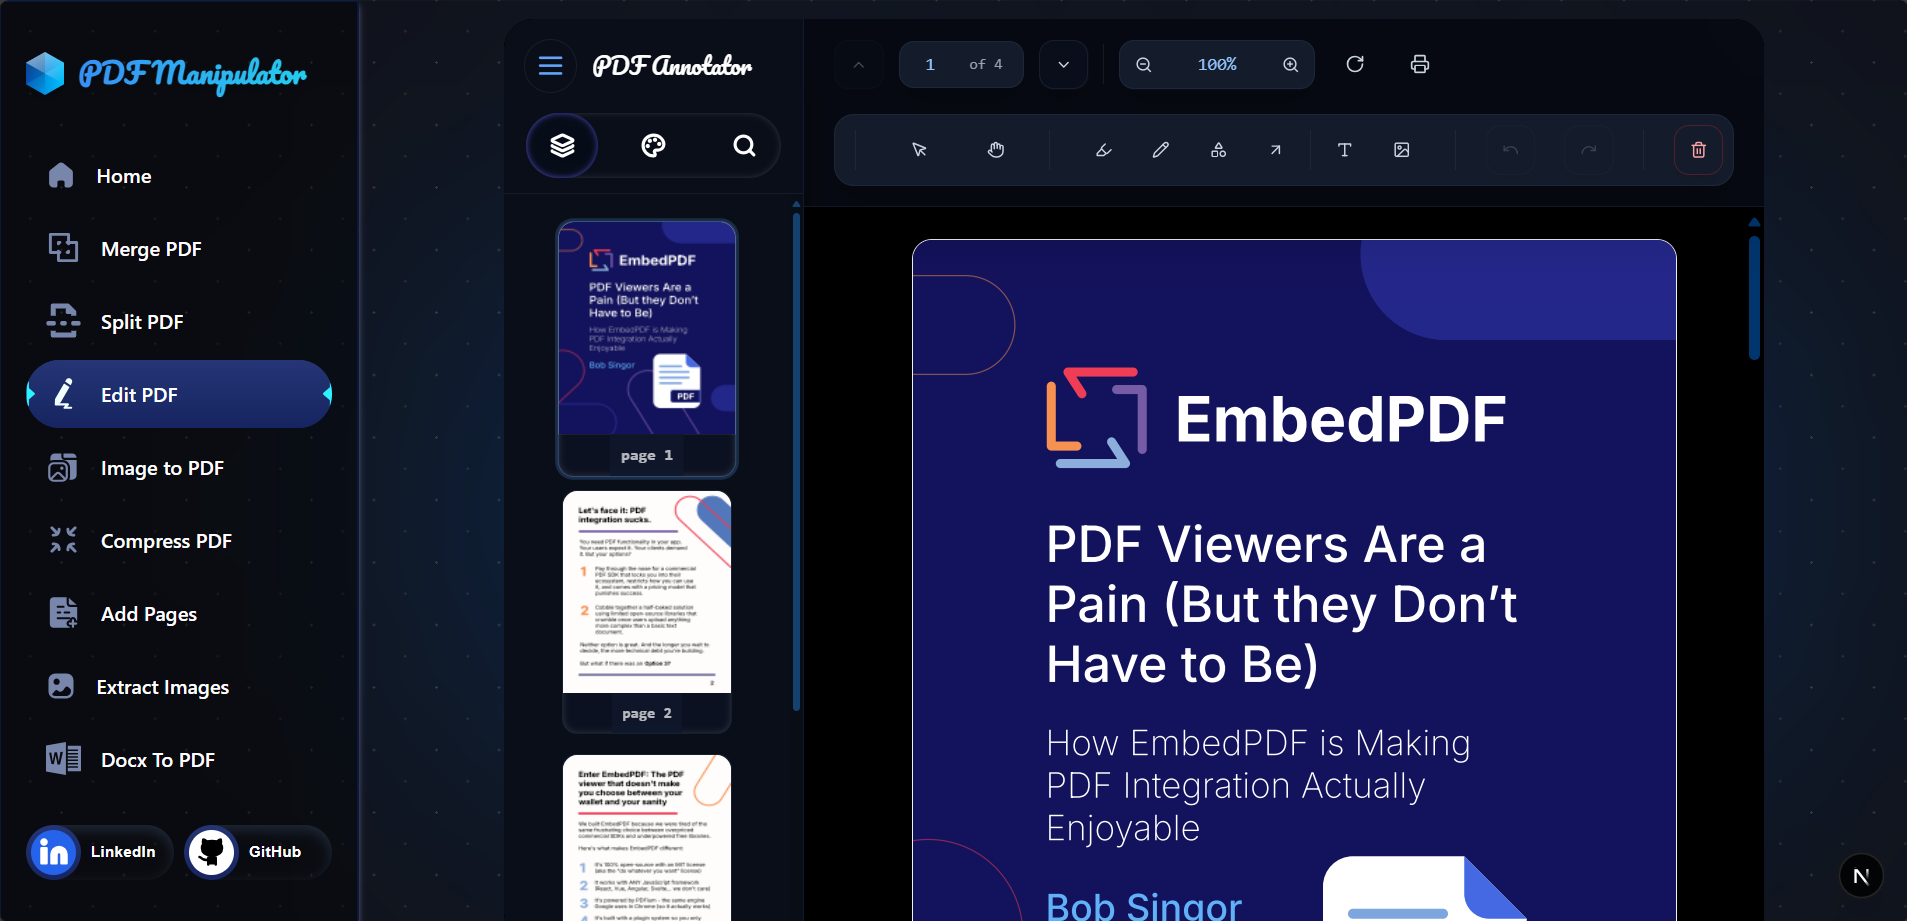
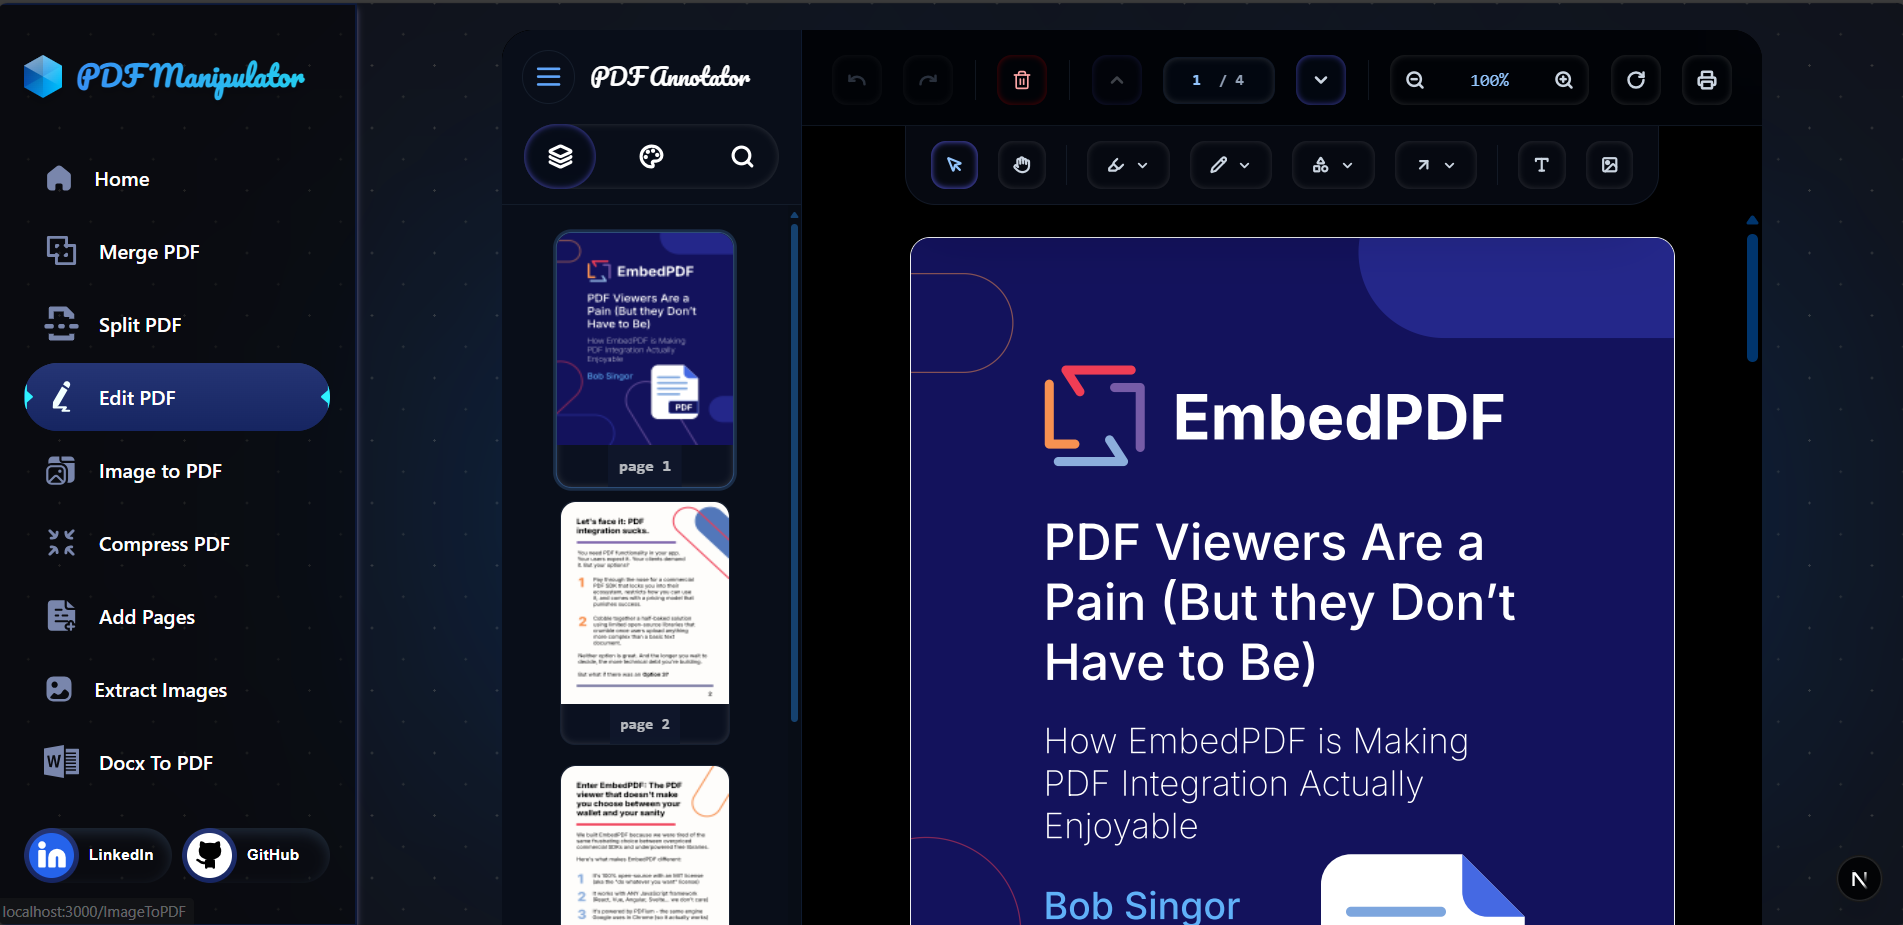
revamp(continue):redesigned the ToolBar by hand and make things look coherant together ... now revamp of StylesPanel remains also adding input component for pdf upload and all those Chunks of UI ..also still this annotator lacks features i plan to add - scroll layout(here we only have vertical i wil

diff --git a/components/Core/PDFEditor/PDFAnnotator.jsx b/components/Core/PDFEditor/PDFAnnotator.jsx
@@ -371,7 +371,7 @@ const PDFAnnotator = () => {
 
 
 					<main className="flex-1 h-auto flex  flex-col overflow-hidden relative">
-						<div className="bg-slate-900/40  rounded-tr-3xl backdrop-blur-xl border-b border-slate-800/50 px-6 py-4 shadow-2xl z-30">
+						<div className=" z-30">
 							<MainToolbar
 								searchQuery={searchQuery}
 								setSearchQuery={setSearchQuery}
@@ -828,7 +828,7 @@ const MainToolbar = ({
 						className={`w-full px-4 py-3 text-left text-sm text-slate-300 hover:bg-slate-700/50 transition-all duration-300 flex items-center space-x-3 ${annotationMode === mode ? 'bg-blue-900/30 text-blue-300' : ''
 							}`}
 					>
-						<Icon size={14} />
+						<Icon strokeWidth={3} size={16} />
 						<span>{label}</span>
 					</button>
 				))}
@@ -838,117 +838,145 @@ const MainToolbar = ({
 
 	return (
 		<>
-			<div className="flex items-center justify-between flex-wrap gap-5">
-				<div className="flex items-center space-x-3">
+			<div className="flex items-center justify-between flex-wrap">
+
+				<div className="flex justify-between w-full items-center space-x-3 bg-gray-950/40  rounded-tr-3xl backdrop-blur-xl border-b border-slate-800/50 shadow-2xl px-6 pt-5 pb-4">
+					<button
+						onClick={handleUndo}
+						disabled={!canUndo}
+						className={`p-3 !shadow-[inset_0_0_5px_rgba(200,200,200,0.2)]  rounded-xl transition-all duration-300 ${canUndo ? 'hover:bg-slate-700/30 text-slate-300' : 'opacity-40 cursor-not-allowed text-slate-500'}`}
+						title="Undo"
+					>
+						<Undo strokeWidth={3} size={16} />
+					</button>
+					<button
+						onClick={handleRedo}
+						disabled={!canRedo}
+						className={`p-3 !shadow-[inset_0_0_5px_rgba(200,200,200,0.2)]  rounded-xl transition-all duration-300 ${canRedo ? 'hover:bg-slate-700/30 text-slate-300' : 'opacity-40 cursor-not-allowed text-slate-500'}`}
+						title="Redo"
+					>
+						<Redo strokeWidth={3} size={16} />
+					</button>
+
+					<div className="w-px h-8 bg-slate-700/30 mx-2 flex-shrink-0" />
+
+					<button
+						onClick={handleDeleteSelected}
+						className="p-3 rounded-xl transition-all duration-300 flex-shrink-0 hover:!shadow-[inset_0_0_5px_rgba(200,0,0,0.6)] text-red-300  !shadow-[inset_0_0_5px_rgba(200,0,0,0.4)]"
+						title="Vaporize"
+					>
+						<Trash2 size={16} />
+					</button>
+					<div className="w-px h-8 bg-slate-700/30 mx-2 flex-shrink-0" />
+
 
 					<button
 						onClick={() => scrollApi?.scrollToPreviousPage()}
 						disabled={currentPage <= 1}
-						className="p-3 hover:bg-slate-800/30 rounded-xl transition-all duration-300 disabled:opacity-30 disabled:cursor-not-allowed shadow-xl border border-slate-700/30 backdrop-blur-xl"
+						className="p-3 !shadow-[inset_0_0_5px_rgba(100,100,255,0.6)] bg-gray-950/70  text-white  rounded-xl transition-all duration-300 disabled:opacity-30 disabled:cursor-not-allowed   backdrop-blur-xl"
 						title="Ascend"
 					>
-						<ChevronUp size={14} className="text-slate-300" />
+						<ChevronUp strokeWidth={3} size={16} className="text-slate-300" />
 					</button>
-					<div className="flex items-center space-x-2 bg-slate-800/50 rounded-xl px-4 py-2 shadow-xl border border-slate-700/30 backdrop-blur-xl">
+					<div className="flex items-center space-x-2 !shadow-[inset_0_0_5px_rgba(200,200,200,0.2)] bg-gray-950/70  text-white rounded-xl px-4 py-2.5  border border-slate-700/30 backdrop-blur-xl">
 						<input
 							type="number"
 							value={currentPage}
 							min={1}
 							max={totalPages}
 							onChange={handlePageChange}
-							className="w-8 bg-transparent text-center text-sm focus:outline-none text-blue-300 font-mono"
+							className="w-5 bg-transparent text-center font-semibold text-xs focus:outline-none text-blue-300"
 						/>
-						<span className="text-xs text-slate-400">of {totalPages}</span>
+						<span className="text-xs font-semibold text-slate-400 pr-2"> / {totalPages}</span>
 					</div>
 					<button
 						onClick={() => scrollApi?.scrollToNextPage()}
 						disabled={currentPage >= totalPages}
-						className="p-3 hover:bg-slate-800/30 rounded-xl transition-all duration-300 disabled:opacity-30 disabled:cursor-not-allowed shadow-xl border border-slate-700/30 backdrop-blur-xl"
+						className="p-3 !shadow-[inset_0_0_5px_rgba(100,100,255,0.6)] bg-gray-950/70  text-white  rounded-xl transition-all duration-300 disabled:opacity-30 disabled:cursor-not-allowed   backdrop-blur-xl"
 						title="Descend"
 					>
-						<ChevronDown size={14} className="text-slate-300" />
+						<ChevronDown strokeWidth={3} size={16} className="text-slate-300" />
 					</button>
 
 					<div className="w-px h-8 bg-slate-700/30 mx-2 flex-shrink-0" />
 
-					<div className="flex items-center space-x-2 bg-slate-800/50 rounded-xl shadow-xl border border-slate-700/30 backdrop-blur-xl">
+					<div className="flex py-2.5 items-center space-x-2 !shadow-[inset_0_0_5px_rgba(200,200,200,0.2)]  rounded-xl ">
 						<button
 							onClick={() => zoomApi?.zoomOut()}
-							className="p-3 hover:bg-slate-700/30 rounded-l-xl transition-all duration-300"
+							className="px-3 hover:bg-slate-700/30 rounded-l-xl transition-all duration-300"
 							title="Contract"
 						>
-							<ZoomOut size={14} className="text-slate-300" />
+							<ZoomOut strokeWidth={3} size={16} className="text-slate-300" />
 						</button>
 						<select
 							value={Math.round(zoom * 100)}
 							onChange={(e) =>
 								zoomApi?.requestZoom(parseInt(e.target.value, 10) / 100)
 							}
-							className="bg-transparent px-4 py-2 text-sm focus:outline-none cursor-pointer text-blue-300 font-mono"
+							className="bg-transparent px-4  text-sm focus:outline-none cursor-pointer text-blue-300 font-mono"
 							style={{ appearance: 'none', width: 'fit-content' }}
 						>
 							{zoomLevels.map((level) => (
-								<option key={level} value={Math.round(level * 100)}>
+								<option key={level} value={Math.round(level * 100)} className=' bg-black-100'>
 									{Math.round(level * 100)}%
 								</option>
 							))}
 						</select>
 						<button
 							onClick={() => zoomApi?.zoomIn()}
-							className="p-3 hover:bg-slate-700/30 rounded-r-xl transition-all duration-300"
+							className="px-3 hover:bg-slate-700/30 rounded-r-xl transition-all duration-300"
 							title="Expand"
 						>
-							<ZoomIn size={14} className="text-slate-300" />
+							<ZoomIn strokeWidth={3} size={16} className="text-slate-300" />
 						</button>
 					</div>
 
 					<button
 						onClick={() => rotateApi?.rotateForward()}
-						className="p-3 hover:bg-slate-700/30 rounded-xl transition-all duration-300"
+						className="p-3 !shadow-[inset_0_0_5px_rgba(200,200,200,0.2)] rounded-xl transition-all duration-300"
 						title="Spin"
 					>
-						<RotateIcon size={16} className="text-slate-300" />
+						<RotateIcon strokeWidth={3} size={16} className="text-slate-300" />
 					</button>
 					<button
 						onClick={() => printApi?.print()}
-						className="p-3 hover:bg-slate-700/30 rounded-xl transition-all duration-300"
+						className="p-3 !shadow-[inset_0_0_5px_rgba(200,200,200,0.2)]  rounded-xl transition-all duration-300"
 						title="Manifest"
 					>
-						<Printer size={16} className="text-slate-300" />
+						<Printer strokeWidth={3} size={16} className="text-slate-300" />
 					</button>
+
 				</div>
 
-				<div className="flex items-center w-full justify-between space-x-2 bg-slate-800/50 rounded-2xl p-2 shadow-xl border border-slate-700/30 backdrop-blur-xl">
-
-					<div className="w-px h-8 bg-slate-700/30 mx-2 flex-shrink-0" />
-
+				{/* below toolbar */}
+				<div className="flex justify-between w-fit items-center space-x-4 mx-auto bg-slate-900/40  rounded-b-3xl backdrop-blur-xl border border-t-0 border-slate-800/50 shadow-2xl px-5 py-3 ">
 					<button
 						onClick={() => setAnnotationMode('select')}
-						className={`p-3 rounded-xl transition-all duration-300 flex-shrink-0 ${annotationMode === 'select' ? 'bg-blue-900/30 text-blue-300 shadow-lg border border-blue-400/30' : 'hover:bg-slate-700/30 text-slate-300'}`}
+						className={`p-3 rounded-xl transition-all duration-300 flex-shrink-0 ${annotationMode === 'select' ? ' text-blue-300 !shadow-[inset_0_0_5px_rgba(100,100,255,0.9)]' : '!shadow-[inset_0_0_5px_rgba(200,200,200,0.2)] text-slate-300'}`}
 						title="Selector"
 					>
-						<MousePointer size={14} />
+						<MousePointer strokeWidth={3} size={14} />
 					</button>
 					<button
 						onClick={() => setAnnotationMode('pan')}
-						className={`p-3 rounded-xl transition-all duration-300 flex-shrink-0 ${annotationMode === 'pan' ? 'bg-blue-900/30 text-blue-300 shadow-lg border border-blue-400/30' : 'hover:bg-slate-700/30 text-slate-300'}`}
+						className={`p-3 rounded-xl transition-all duration-300 flex-shrink-0 ${annotationMode === 'pan' ? ' text-blue-300 !shadow-[inset_0_0_5px_rgba(100,100,255,0.9)]' : '!shadow-[inset_0_0_5px_rgba(200,200,200,0.2)] text-slate-300'}`}
 						title="Drift"
 					>
-						<Hand size={14} />
+						<Hand strokeWidth={3} size={14} />
 					</button>
 					<div className="w-px h-8 bg-slate-700/30 mx-2 flex-shrink-0" />
 
 					{/* Grouped Tool Buttons */}
-					<div className="relative flex items-center space-x-2 ">
+					{/* <div className="relative flex items-center space-x-2 "> */}
 						{/* Markup Group */}
 						<div className="relative">
 							<button
 								onClick={() => setToolDropdown(toolDropdown === 'markup' ? null : 'markup')}
-								className={`p-3 rounded-xl min-w-fit flex-row flex transition-all duration-300 flex-shrink-0 ${toolDropdown === 'markup' ? 'bg-amber-900/30 text-amber-300 shadow-lg border border-amber-400/30' : 'hover:bg-slate-700/30 text-slate-300'}`}
+								className={`p-3 px-4 rounded-xl min-w-fit flex-row flex items-center gap-1 transition-all duration-300 flex-shrink-0 ${toolDropdown === 'markup' || ['squiggly', 'strikeout', 'underline', 'highlight'].includes(annotationMode) ? ' !shadow-[inset_0_0_5px_rgba(252,211,77,0.6)] text-amber-300  ' : 'hover:bg-slate-700/30 !shadow-[inset_0_0_5px_rgba(200,200,200,0.2)] text-slate-300'}`}
 								title="Text Markup"
 							>
-								<Highlighter size={14} />
-								{toolDropdown === 'markup' && <DropdownIcon size={12} className="ml-1" />}
+								<Highlighter strokeWidth={3} size={14} />
+								<DropdownIcon strokeWidth={3} size={12} className={`ml-1 ${toolDropdown === 'markup' ? "rotate-180" : ""}`} />
 							</button>
 							{toolDropdown === 'markup' && (
 								<ToolDropdown group="markup" onSelect={setAnnotationMode} onClose={() => setToolDropdown(null)} />
@@ -959,11 +987,11 @@ const MainToolbar = ({
 						<div className="relative">
 							<button
 								onClick={() => setToolDropdown(toolDropdown === 'ink' ? null : 'ink')}
-								className={`p-3 rounded-xl min-w-fit flex-row flex transition-all duration-300 flex-shrink-0 ${toolDropdown === 'ink' ? 'bg-emerald-900/30 text-emerald-300 shadow-lg border border-emerald-400/30' : 'hover:bg-slate-700/30 text-slate-300'}`}
+								className={`p-3  px-4 rounded-xl min-w-fit flex-row flex items-center gap-1 transition-all duration-300 flex-shrink-0 ${toolDropdown === 'ink' || ['ink', 'inkHighlighter'].includes(annotationMode) ? ' !shadow-[inset_0_0_5px_rgba(110,231,183,0.6)] text-emerald-300  ' : 'hover:bg-slate-700/30 !shadow-[inset_0_0_5px_rgba(200,200,200,0.2)] text-slate-300'}`}
 								title="Ink Tools"
 							>
-								<Pencil size={14} />
-								{toolDropdown === 'ink' && <DropdownIcon size={12} className="ml-1" />}
+								<Pencil strokeWidth={3} size={14} />
+								<DropdownIcon strokeWidth={3} size={12} className={`ml-1 ${toolDropdown === 'ink' ? "rotate-180" : ""}`} />
 							</button>
 							{toolDropdown === 'ink' && (
 								<ToolDropdown group="ink" onSelect={setAnnotationMode} onClose={() => setToolDropdown(null)} />
@@ -974,11 +1002,11 @@ const MainToolbar = ({
 						<div className="relative">
 							<button
 								onClick={() => setToolDropdown(toolDropdown === 'shapes' ? null : 'shapes')}
-								className={`p-3 rounded-xl min-w-fit flex-row flex transition-all duration-300 flex-shrink-0 ${toolDropdown === 'shapes' ? 'bg-indigo-900/30 text-indigo-300 shadow-lg border border-indigo-400/30' : 'hover:bg-slate-700/30 text-slate-300'}`}
+								className={`p-3  px-4 rounded-xl min-w-fit flex-row flex items-center gap-1 transition-all duration-300 flex-shrink-0 ${toolDropdown === 'shapes' || ['circle', 'square', 'polygon'].includes(annotationMode) ? ' !shadow-[inset_0_0_5px_rgba(147,197,253,0.6)] text-blue-300  ' : 'hover:bg-slate-700/30 !shadow-[inset_0_0_5px_rgba(200,200,200,0.2)] text-slate-300'}`}
 								title="Shapes"
 							>
-								<ShapesIcon size={14} />
-								{toolDropdown === 'shapes' && <DropdownIcon size={12} className="ml-1" />}
+								<ShapesIcon strokeWidth={3} size={14} />
+								<DropdownIcon strokeWidth={3} size={12} className={`ml-1 ${toolDropdown === 'shapes' ? "rotate-180" : ""}`} />
 							</button>
 							{toolDropdown === 'shapes' && (
 								<ToolDropdown group="shapes" onSelect={setAnnotationMode} onClose={() => setToolDropdown(null)} />
@@ -989,11 +1017,11 @@ const MainToolbar = ({
 						<div className="relative">
 							<button
 								onClick={() => setToolDropdown(toolDropdown === 'lines' ? null : 'lines')}
-								className={`p-3 rounded-xl min-w-fit flex-row flex transition-all duration-300 flex-shrink-0 ${toolDropdown === 'lines' ? 'bg-slate-700/30 text-slate-300 shadow-lg border border-slate-600/30' : 'hover:bg-slate-700/30 text-slate-300'}`}
+								className={`p-3  px-4 rounded-xl min-w-fit flex-row flex items-center gap-1 transition-all duration-300 flex-shrink-0 ${toolDropdown === 'lines' || ['line', 'lineArrow', 'polyline'].includes(annotationMode) ? ' !shadow-[inset_0_0_5px_rgba(252,165,165,0.6)] text-red-300  ' : 'hover:bg-slate-700/30 !shadow-[inset_0_0_5px_rgba(200,200,200,0.2)] text-slate-300'}`}
 								title="Lines"
 							>
-								<ArrowUpRight size={14} />
-								{toolDropdown === 'lines' && <DropdownIcon size={12} className="ml-1" />}
+								<ArrowUpRight strokeWidth={3} size={14} />
+								<DropdownIcon strokeWidth={3} size={12} className={`ml-1 ${toolDropdown === 'lines' ? "rotate-180" : ""}`} />
 							</button>
 							{toolDropdown === 'lines' && (
 								<ToolDropdown group="lines" onSelect={setAnnotationMode} onClose={() => setToolDropdown(null)} />
@@ -1004,48 +1032,21 @@ const MainToolbar = ({
 
 						<button
 							onClick={() => setAnnotationMode('freeText')}
-							className={`p-3 rounded-xl transition-all duration-300 flex-shrink-0 ${annotationMode === 'freeText' ? 'bg-blue-900/30 text-blue-300 shadow-lg border border-blue-400/30' : 'hover:bg-slate-700/30 text-slate-300'}`}
+							className={`p-3 rounded-xl transition-all duration-300 flex-shrink-0 ${annotationMode === 'freeText' ? ' text-blue-300 !shadow-[inset_0_0_5px_rgba(100,100,255,0.9)]' : '!shadow-[inset_0_0_5px_rgba(200,200,200,0.2)] text-slate-300'}`}
 							title="Inscribe"
 						>
-							<Type size={14} />
+							<Type strokeWidth={3} size={14} />
 						</button>
 						<button
 							onClick={() => setAnnotationMode('stamp')}
-							className={`p-3 rounded-xl transition-all duration-300 flex-shrink-0 hover:bg-slate-700/30 text-slate-300 ${annotationMode === 'stamp' ? 'bg-blue-900/30 text-blue-300 shadow-lg border border-blue-400/30' : ''}`}
-							title="Imprint"
+							className={`p-3 rounded-xl transition-all duration-300 flex-shrink-0 ${annotationMode === 'stamp' ? ' text-blue-300 !shadow-[inset_0_0_5px_rgba(100,100,255,0.9)]' : '!shadow-[inset_0_0_5px_rgba(200,200,200,0.2)] text-slate-300'}`}
+							title="Add Image"
 						>
-							<ImageIcon size={14} />
+							<ImageIcon strokeWidth={3} size={14} />
 						</button>
 
-					</div>
-					<div className="w-px h-8 bg-slate-700/30 mx-2 flex-shrink-0" />
+					{/* </div> */}
 
-					<button
-						onClick={handleUndo}
-						disabled={!canUndo}
-						className={`p-3 rounded-xl transition-all duration-300 flex-shrink-0 shadow-lg border border-slate-700/30 ${canUndo ? 'hover:bg-slate-700/30 text-slate-300' : 'opacity-40 cursor-not-allowed text-slate-500'}`}
-						title="Rewind"
-					>
-						<Undo size={14} />
-					</button>
-					<button
-						onClick={handleRedo}
-						disabled={!canRedo}
-						className={`p-3 rounded-xl transition-all duration-300 flex-shrink-0 shadow-lg border border-slate-700/30 ${canRedo ? 'hover:bg-slate-700/30 text-slate-300' : 'opacity-40 cursor-not-allowed text-slate-500'}`}
-						title="Fast Forward"
-					>
-						<Redo size={14} />
-					</button>
-
-					<div className="w-px h-8 bg-slate-700/30 mx-2 flex-shrink-0" />
-
-					<button
-						onClick={handleDeleteSelected}
-						className="p-3 rounded-xl transition-all duration-300 flex-shrink-0 hover:bg-red-900/30 text-red-300 shadow-lg border border-red-600/30"
-						title="Vaporize"
-					>
-						<Trash2 size={14} />
-					</button>
 				</div>
 			</div>
 		</>
@@ -1300,7 +1301,7 @@ export const SearchRenderer = () => {
 							aria-label="Purge scan"
 						>
 							<svg className="h-4 w-4" xmlns="http://www.w3.org/2000/svg" viewBox="0 0 20 20" fill="currentColor">
-								<path fillRule="evenodd" d="M4.293 4.293a1 1 0 011.414 0L10 8.586l4.293-4.293a1 1 0 111.414 1.414L11.414 10l4.293 4.293a1 1 0 01-1.414 1.414L10 11.414l-4.293 4.293a1 1 0 01-1.414-1.414L8.586 10 4.293 5.707a1 1 0 010-1.414z" clipRule="evenodd" />
+								<path fillRule="evenodd" d="M4.293 4.293a1 1 0 011.416 0L10 8.586l4.293-4.293a1 1 0 111.416 1.416L11.416 10l4.293 4.293a1 1 0 01-1.416 1.416L10 11.416l-4.293 4.293a1 1 0 01-1.416-1.416L8.586 10 4.293 5.707a1 1 0 010-1.416z" clipRule="evenodd" />
 							</svg>
 						</button>
 					) : null}
@@ -1580,7 +1581,7 @@ const FontFamilySelect = ({ value, onChange }) => (
 );
 
 // FontSizeInputSelect Component
-const FontSizeInputSelect = ({ value, onChange, options = [8, 9, 10, 11, 12, 14, 16, 18, 24, 36, 48, 72] }) => {
+const FontSizeInputSelect = ({ value, onChange, options = [8, 9, 10, 11, 12, 16, 16, 18, 24, 36, 48, 72] }) => {
 	const { open, setOpen, rootRef, selectedItemRef } = useDropdown();
 
 	const handleInput = (e) => {

diff --git a/app/globals.css b/app/globals.css
@@ -255,3 +255,14 @@ input[type="range"]::-moz-range-thumb {
   /* Firefox */
 }
 
+/* Chrome, Safari, Edge, Opera */
+input::-webkit-outer-spin-button,
+input::-webkit-inner-spin-button {
+  -webkit-appearance: none;
+  margin: 0;
+}
+
+/* Firefox */
+input[type=number] {
+  -moz-appearance: textfield;
+}
